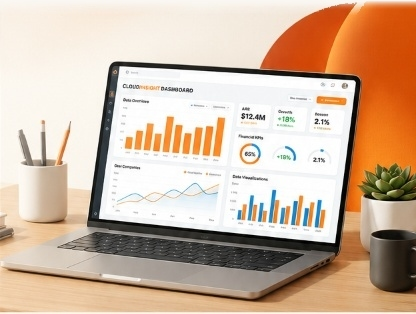
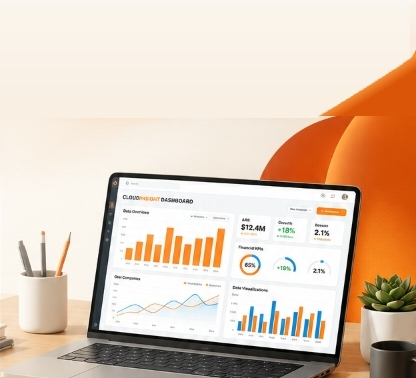
fix(mobile): achieve continuous upward orange 3D sculpture curve matching reference

diff --git a/src/app/globals.css b/src/app/globals.css
@@ -2218,7 +2218,7 @@ textarea.form-control {
     width: calc(100% + 3rem);
     margin-left: -1.5rem;
     margin-right: -1.5rem;
-    margin-top: -1.25rem;
+    margin-top: -3.75rem;
     position: relative;
     z-index: 2;
   }
@@ -2413,7 +2413,7 @@ textarea.form-control {
     width: calc(100% + 2.5rem);
     margin-left: -1.25rem;
     margin-right: -1.25rem;
-    margin-top: -1.25rem;
+    margin-top: -3.75rem;
   }
   .hero-feature-trio {
     padding: 0.85rem 1rem 1.25rem 1rem;
@@ -2556,7 +2556,7 @@ textarea.form-control {
     width: calc(100% + 2rem);
     margin-left: -1rem;
     margin-right: -1rem;
-    margin-top: -1.25rem;
+    margin-top: -3.5rem;
   }
   .hero-feature-trio {
     padding: 0.75rem 0.5rem 1.15rem 0.5rem;
